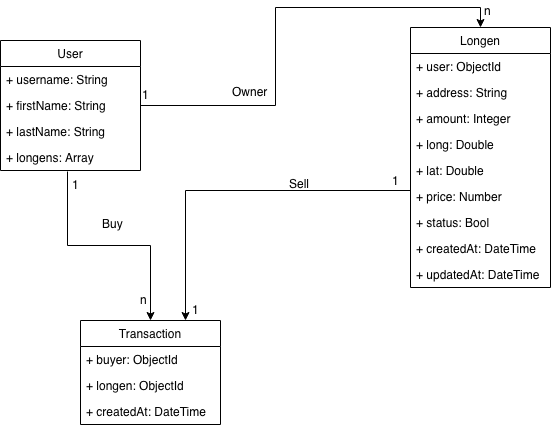
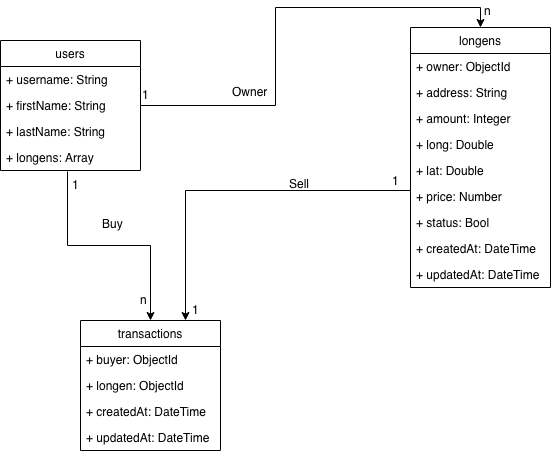
Update ER diagram and readme

diff --git a/README.md b/README.md
@@ -13,12 +13,12 @@ project for training our new backend developer .
  - [x] Set stack and Design database
  - [ ] Basic restful api service without connect database
  - [ ] Connect and Access to database
- - [ ] App Structure
+ - [x] App Structure
  - [ ] Deployment
  
 ## Stack
  - Hapi
- - Mongoose
+ - MongoDB
  
 ## ER-Diagram
 ![Alt text](ER/Longen-ER.png?raw=true "ER diagram")
